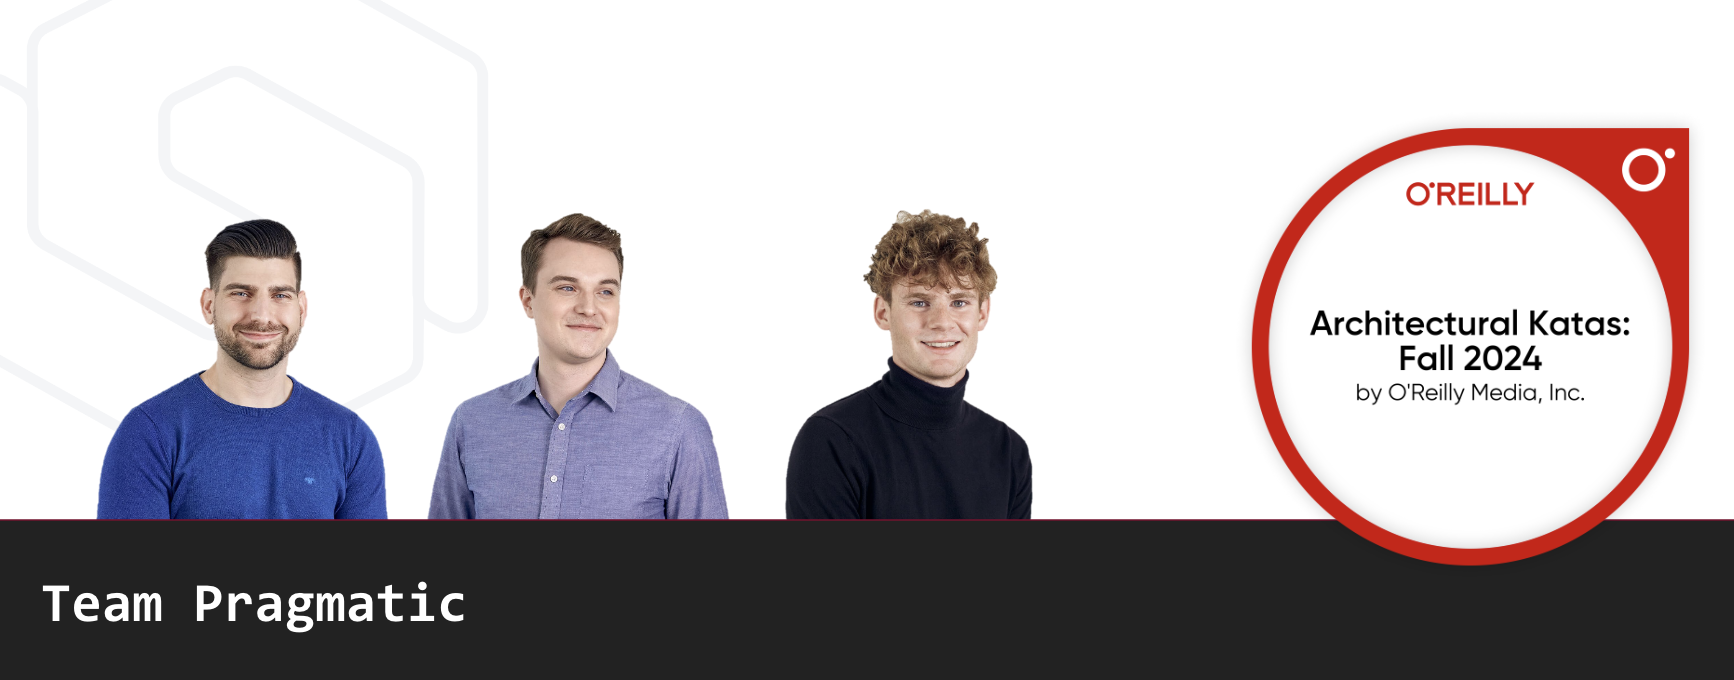
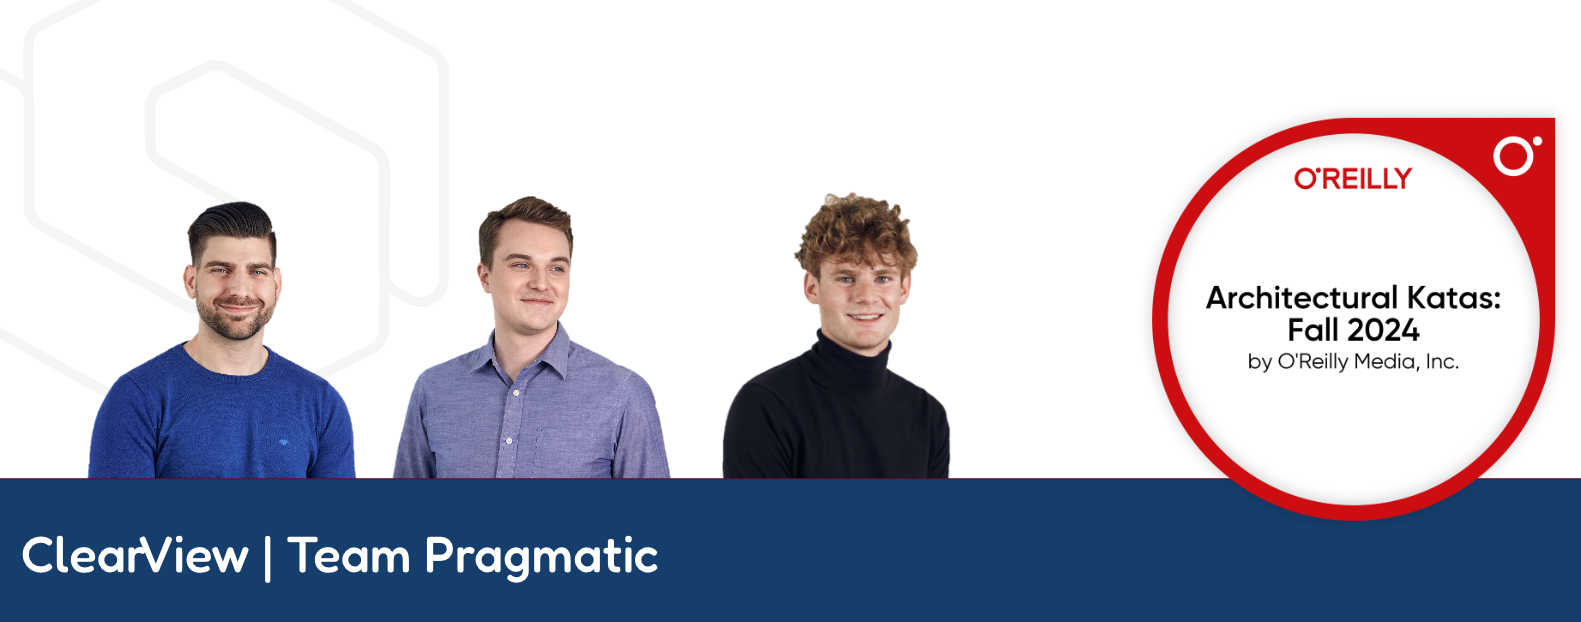
docs: Add introduction to the ClearView program

diff --git a/README.md b/README.md
@@ -1,5 +1,21 @@
-# 2024-fall-architectural-katas
+# Diversity Cyber Council - ClearView | O'Reilly Architectural Kata (Autumn 2024)
 A (hopefully) pragmatic approach to the O'Reilly Autumn Architectural Kata 2024
+
+TODO -> Update
+
+- [Team](#team)
+- [Introduction](#introduction)
+- [Requirements](#requirements)
+- [Event Storming](#event-storming)
+- [Architecture Characteristics](#architecture-characteristics)
+- [Architecture style](#architecture-style)
+- [Architecture](#architecture)
+  - [Context diagram (C1)](#context-diagram-c1)
+  - [Container diagram (C2)](#container-diagram-c2)
+  - [Components diagram (C3)](#components-diagram-c3)
+- [Usecases](#usecases)
+- [Known Limitations](#known-limitations)
+
 
 ## Team
 ![Team](/ArchitectureCharacteristics/images/team.png)
@@ -9,7 +25,18 @@ A (hopefully) pragmatic approach to the O'Reilly Autumn Architectural Kata 2024
 - Tobias Heller, [Linkedin](https://ch.linkedin.com/in/tobias-heller)
 
 ## Introduction
-TODO -> What is Diversity Equity Counsil about, what is the goal of ClearView?
+The [Diversity Cyber Council](https://www.diversitycybercouncil.com/) is a Non-Profit that helps under-represented demographics in the tech-industry with education, staffing and training opportunities.
+
+The *ClearView* program aims to harness AI to facilitate matches between candidates and job positions using anonymized resumes.
+
+**Key Objectives:**
+
+- **Develop an AI-Powered Matching Platform:** Create an effective system that minimizes bias in the hiring process.
+  
+- **Analyze Hiring Disparities:** Utilize metrics and surveys to uncover disparities between selected candidates and those who were not hired.
+  
+- **Seamless HR Integration:** Implement a streamlined integration with employers' HR systems to ensure a smooth interview experience.
+
 
 ## Requirements
 TODO
